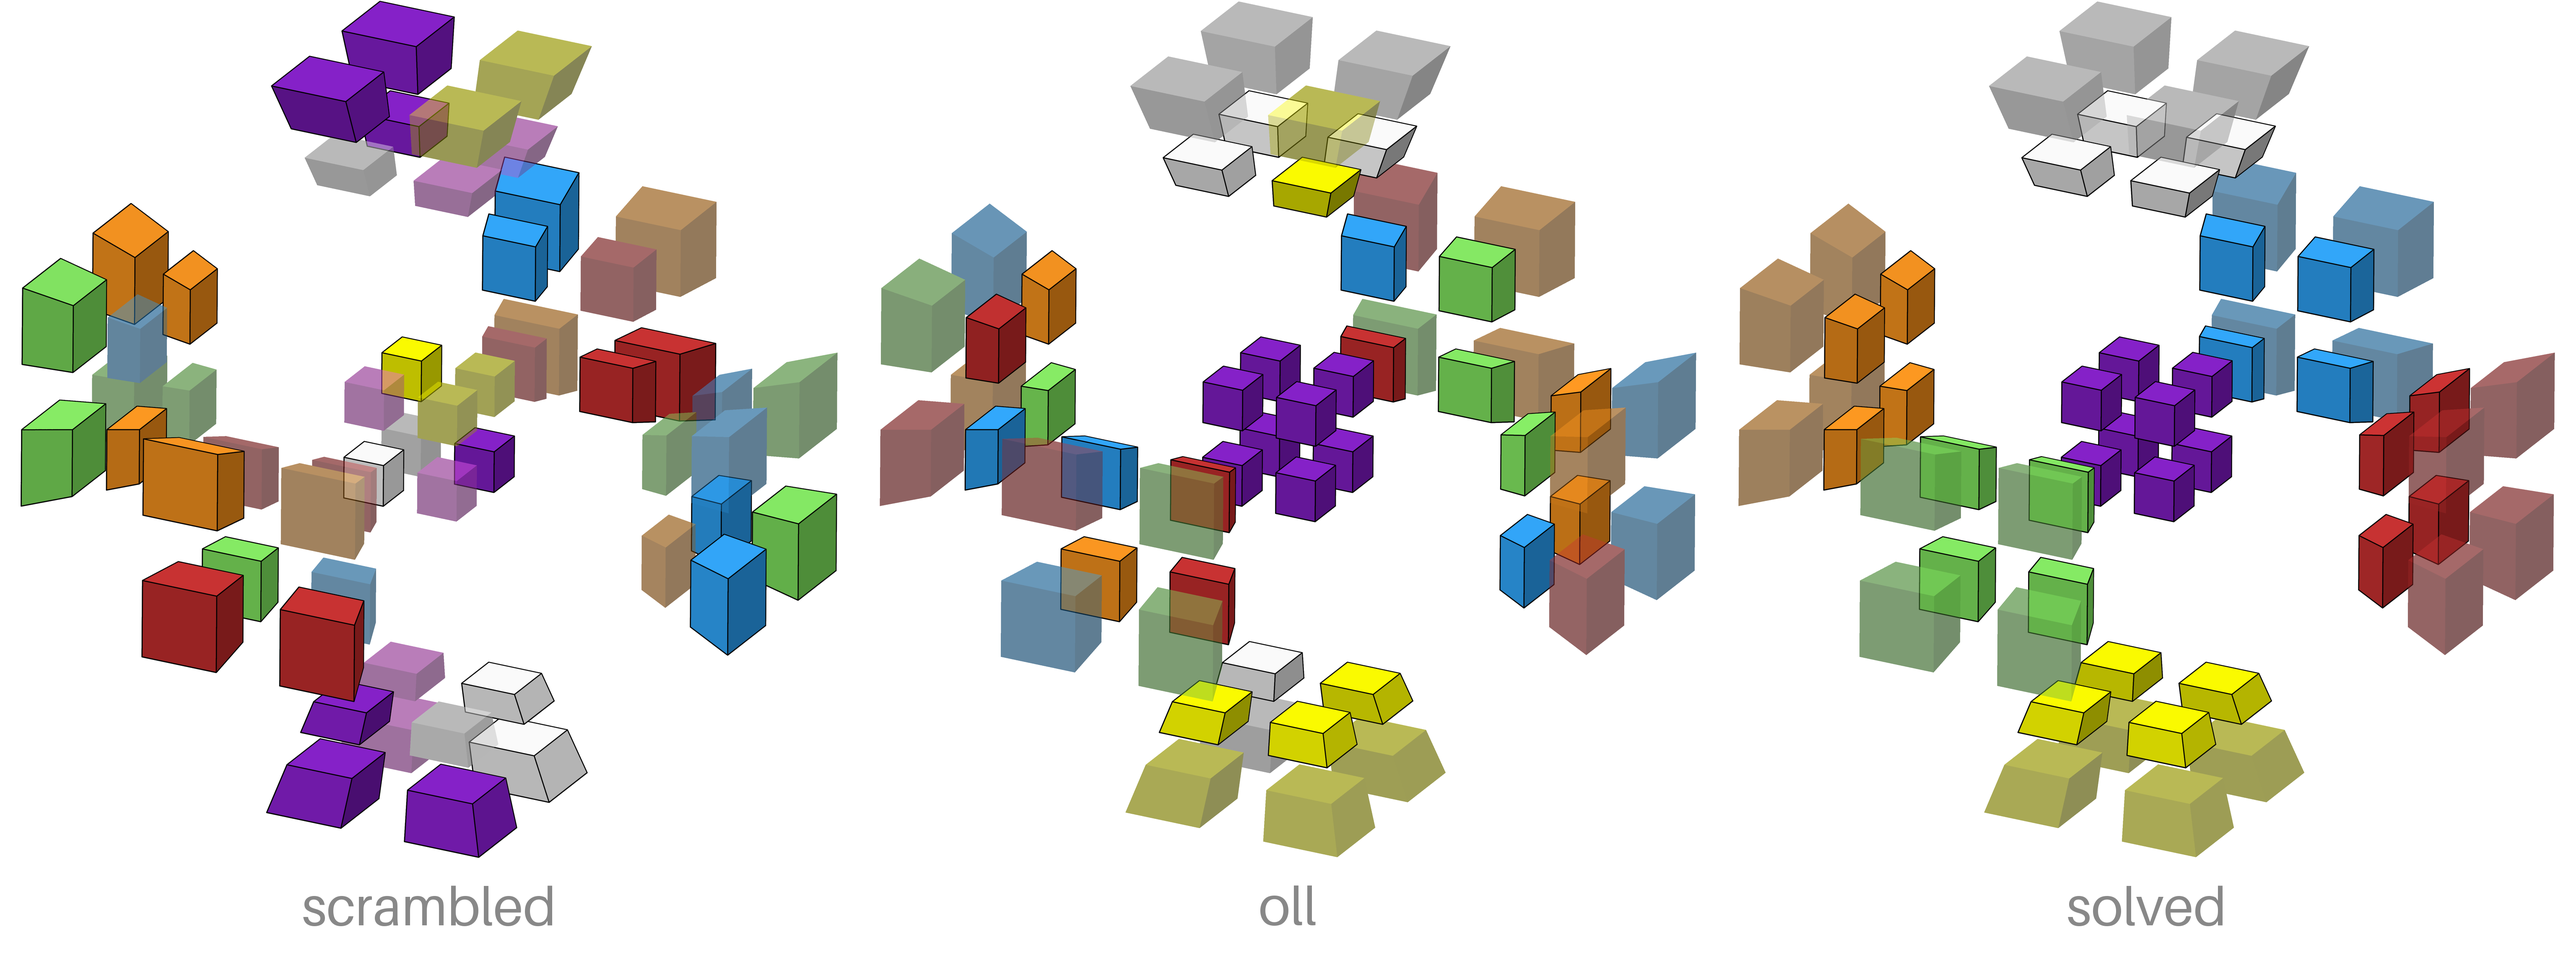
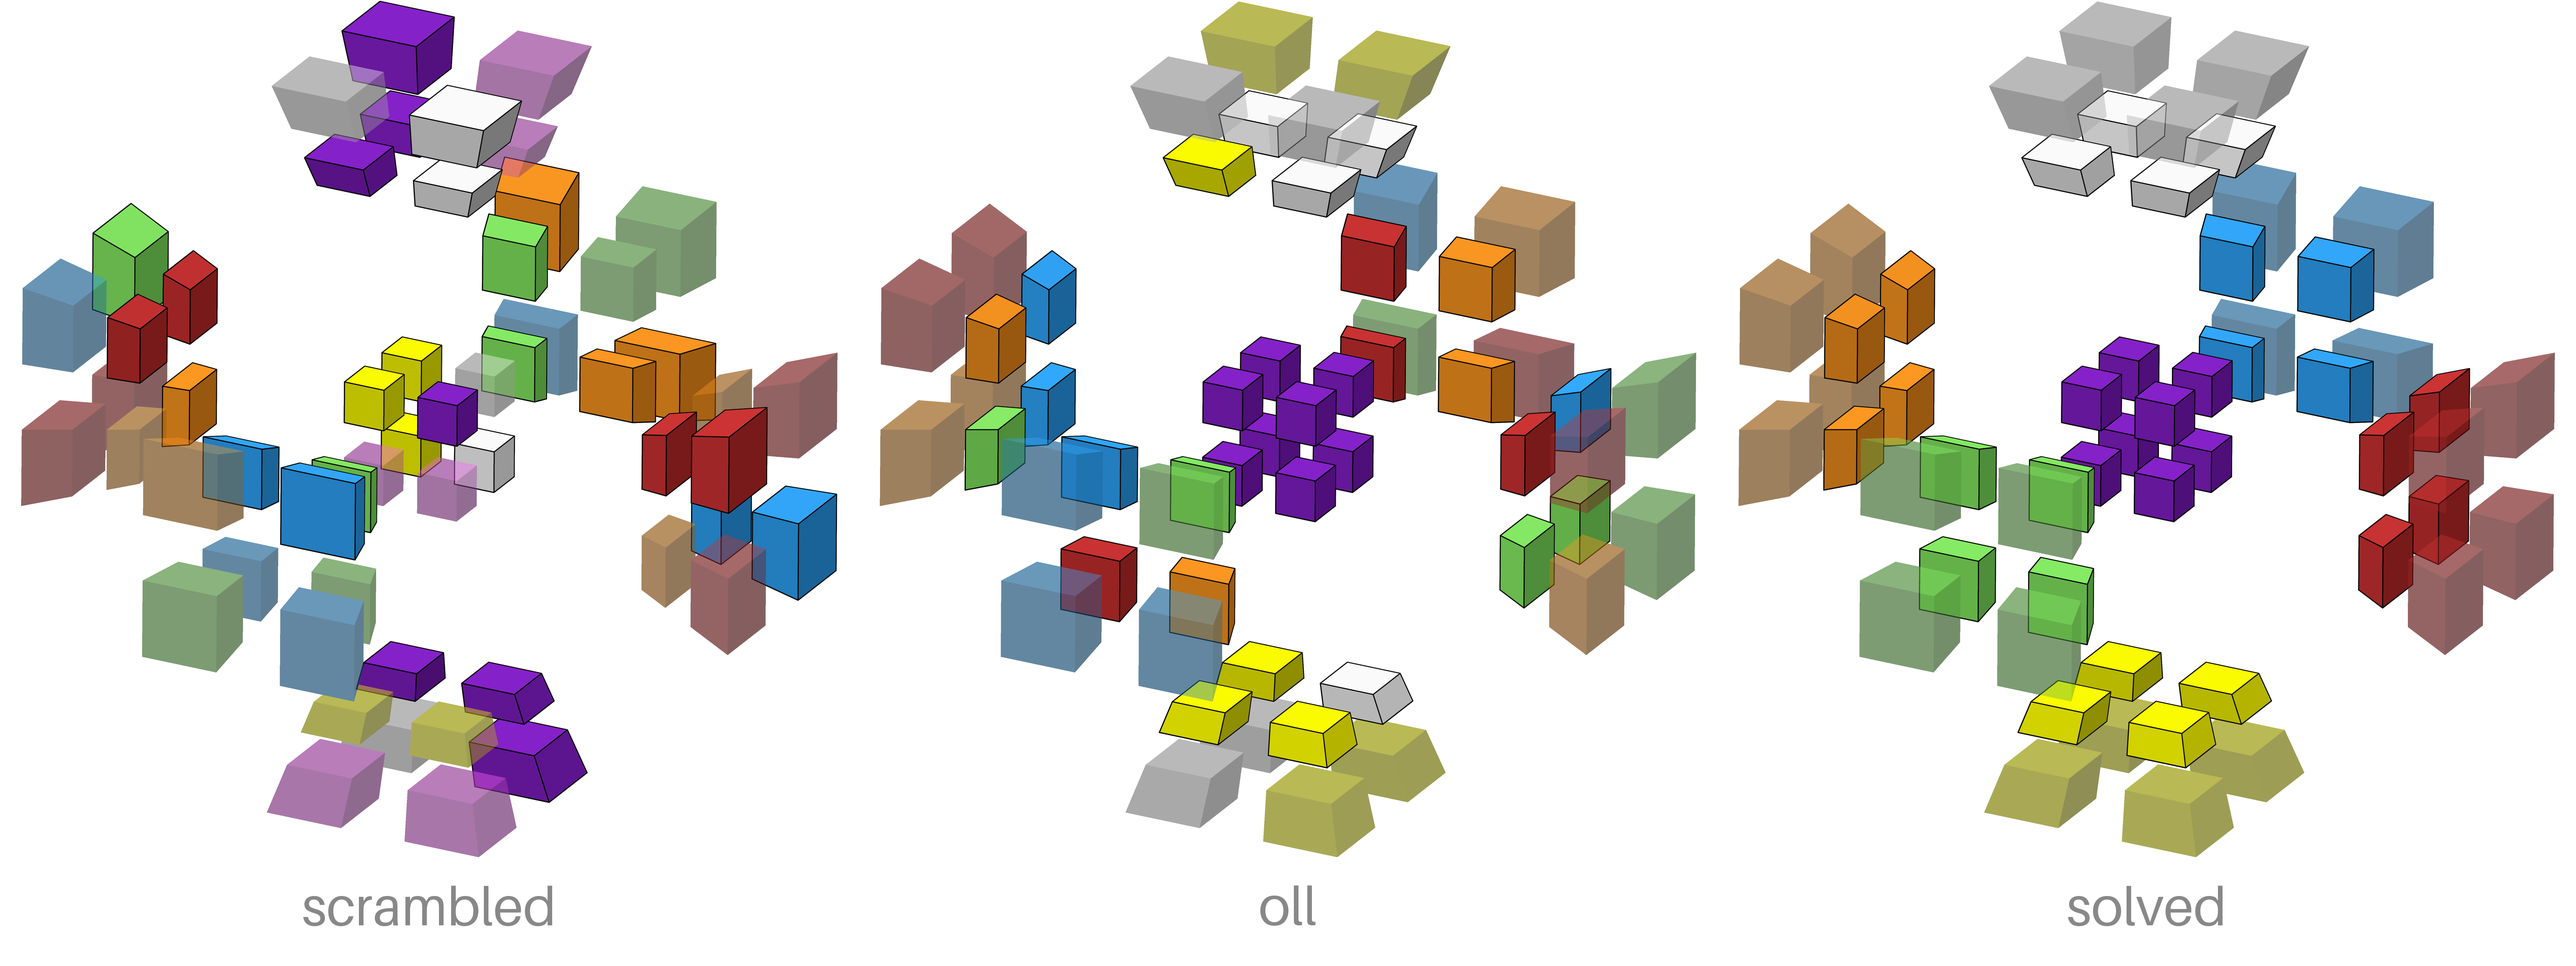
better computer method images

Changed region(s): [[0.0, 0.0312, 0.5625, 0.9062], [0.4375, 0.0, 0.6562, 0.6875], [0.4375, 0.75, 0.5, 0.875]]

diff --git a/assets/build-assets.py b/assets/build-assets.py
@@ -33,21 +33,27 @@ SIZE = 2048
 CAPTION_PX = SIZE // 16
 CAPTION_COLOR = (136, 136, 136, 255)  # mid gray: readable on GitHub's light and dark themes
 
-# Human method, from a 35 STM solve. An action is one undo step after the
-# scramble, so it differs from the STM count shown in hsc2's status bar; the STM
-# at each action is in `render`'s output. Where several actions share an STM,
-# the step uses the last one.
-STEPS = {  # caption: action
-    "scrambled": 0,
-    "f2l": 16,  # STM 11
-    "oll": 29,  # STM 22
-    "separation": 33,  # STM 26
-    "solved": 43,  # STM 35
-}
+# Each strip is frames of one solve log: (log, {caption: action}). An action is
+# one undo step after the scramble, so it can differ from the STM count: hsc2's
+# status bar merges consecutive twists of one cell, and a human log has
+# rotations too. Where several actions share an STM, the step uses the last one.
 STRIPS = {
-    "human": ["scrambled", "f2l", "oll", "separation", "solved"],
-    # The computer method's phase 1 ends in oll too, so it reuses those frames.
-    "computer": ["scrambled", "oll", "solved"],
+    # Human method, from a 35 STM human solve; the STM at each action is in
+    # `render`'s output.
+    "human": (
+        "stm35.hsc",
+        {
+            "scrambled": 0,
+            "f2l": 16,  # STM 11
+            "oll": 29,  # STM 22
+            "separation": 33,  # STM 26
+            "solved": 43,  # STM 35
+        },
+    ),
+    # Computer method, from the solver's `--depth 0` solve of the same scramble
+    # (8 + 14 STM, 23 twists). why depth 0? optimal solves spend nearly all
+    # their twists in phase 1, so their oll frame is almost solved.
+    "computer": ("computer.hsc", {"scrambled": 0, "oll": 8, "solved": 23}),
 }
 
 
@@ -85,18 +91,24 @@ def main() -> None:
         tmp = Path(tmp)
         render(ASSETS / "draw/unfiltered.yaml", tmp / "solved.png").save(ASSETS / "solved.png", optimize=True)
 
-        log = tmp / "stm35.hsc"
-        subprocess.run([ROOT / "target/release/port-log", ASSETS / "stm35.hsc", log], check=True)
-        frames = {}
-        for caption, action in STEPS.items():
-            # `--align-to-end` undoes the whole-puzzle rotation that the solve
-            # ends with, so the frames match solved.png.
-            frames[caption] = render(
-                ASSETS / "draw/purple.yaml", tmp / f"{caption}.png", str(log), "--action", str(action), "--align-to-end"
-            )
-
-        for name, captions in STRIPS.items():
-            strip([frames[c] for c in captions], captions).save(ASSETS / f"{name}.png", optimize=True)
+        for name, (src, steps) in STRIPS.items():
+            log = tmp / src
+            subprocess.run([ROOT / "target/release/port-log", ASSETS / src, log], check=True)
+            # `--align-to-end` undoes the whole-puzzle rotation the solve ends
+            # in (a human's rotations, or the solver's fixed corner), so the
+            # frames match solved.png.
+            frames = [
+                render(
+                    ASSETS / "draw/purple.yaml",
+                    tmp / f"{name}-{caption}.png",
+                    str(log),
+                    "--action",
+                    str(action),
+                    "--align-to-end",
+                )
+                for caption, action in steps.items()
+            ]
+            strip(frames, list(steps)).save(ASSETS / f"{name}.png", optimize=True)
 
         # A phase 2 antipode (21 STM in the reduced moveset), drawn before its solution.
         log = tmp / "antipode-p2.hsc"

diff --git a/README.md b/README.md
@@ -1,24 +1,26 @@
 # README
 
-this is a optimal two phase solver for the {4}x{4} 2x2 duoprism twisty puzzle. it finds optimal solutions see [antipode](antipode.md) for the exploration of god's number.
+this is a optimal two phase solver for the {4}x{4} 2x2 duoprism twisty puzzle. it finds optimal solutions of ~14 STM in ~10 s. see [antipode](antipode.md) for the exploration of god's number.
 
 ![solved](assets/solved.png)
 
 images from [hsc2](https://github.com/hactarCE/Hyperspeedcube/).
 
-for pedagogy, i use the standard 3^4 [notation](https://hypercubing.xyz/notation/), color scheme, and orientation (red on `R`, orange on `L`, white on `U`, yellow on `D`, green on `F`, blue on `B`, pink on `O`, purple on `I`). note that the solver uses a different orientation and notation internally, the same as hsc2.
+for pedagogy, i use the standard 3^4 [notation](https://hypercubing.xyz/notation/), color scheme, and orientation (red on `R`, orange on `L`, white on `U`, yellow on `D`, green on `F`, blue on `B`, pink on `O`, purple on `I`). note that the solver uses a different orientation and notation internally, the same ones as hsc2.
 
 the {4}x{4} duoprism has two rings of square prisms: `R`/`F`/`L`/`B` and `U`/`I`/`D`/`O`.
 
 # method
 
-pieces without a purple sticker (ie with a pink sticker) are drawn translucent.
+pieces without a purple sticker / with a pink sticker are drawn translucent.
 
 ## human
 
+the human method has four steps:
+
 ![human method](assets/human.png)
 
-the human method has four steps. first we solve the pink outer `O` stickers intuitively.
+first we solve the pink outer `O` stickers intuitively.
 
 then we orient the purple inner `I` cell with some short algorithms (variants of sune).
 
@@ -28,9 +30,9 @@ then we solve the rest of the puzzle, using PLB algorithms and `I*` twists.
 
 ## computer
 
-![computer method](assets/computer.png)
+the computer method instead uses just two phases: phase 1 goes from scrambled to oll (`I` on `I`, `O` on `O`, `U`/`D` on `U`/`D`), and phase 2 goes from oll to solved:
 
-the computer method instead uses just two phases: phase 1 goes from scrambled to oll (`I` on `I`, `O` on `O`, `U`/`D` on `U`/`D`), and phase 2 goes from oll to solved.
+![computer method](assets/computer.png)
 
 we hold the all-positive piece (the corner on `εA εB ηA ηB`) fixed, and only twist the four negative cells `εC`, `εD`, `ηC`, `ηD`, for `4 * (8-1) = 28` non-identity twists.
 
@@ -62,7 +64,7 @@ instead of only considering the optimal child, we also have some additional dept
 
 ## more pruning
 
-each higher depth takes about `NUM_TWISTS = 28` slower, so we need more pruning.
+each higher depth is about `NUM_TWISTS = 28` slower, so we need more pruning.
 
 the insight is that a full solution must simultaneously solve all four symmetric oll targets.
 

diff --git a/antipode.md b/antipode.md
@@ -4,7 +4,7 @@ we fully understand each of the phases; we have bounds for the full puzzle
 
 ## phase 1
 
-god's number for phase 1 is 10 STM, taken from the pruning table. here's the (exact) histogram of STM from a random state:
+god's number for phase 1 is 10 STM, taken from the pruning table. here's the (exact) histogram of STM over all cosets:
 
 | STM | cosets |
 |---|---|
@@ -20,7 +20,7 @@ god's number for phase 1 is 10 STM, taken from the pruning table. here's the (ex
 | 9 | 16,157,124 |
 | 10 | 2,744 |
 
-mean 7.95 STM.
+with mean 7.95 STM.
 
 and here's an example of an antipode, chosen for having a nice solution, alternating `ε`-cell twists and `ηD_εA_εD`:
 
@@ -42,7 +42,7 @@ the combinatorial lower bound is 7 STM: 1.05e8 positions.
 
 ## phase 2 (reduced moveset)
 
-god's number for phase 2 under the reduced moveset is 21 STM, taken from the pruning table. here's the (exact) histogram of STM from a random state:
+god's number for phase 2 under the reduced moveset is 21 STM, taken from the pruning table. here's the (exact) histogram of STM over all positions:
 
 | STM | positions |
 |---|---|
@@ -69,7 +69,7 @@ god's number for phase 2 under the reduced moveset is 21 STM, taken from the pru
 | 20 | 637,632 |
 | 21 | 13,280 |
 
-mean 16.18 STM.
+with mean 16.18 STM.
 
 let's get an example of an antipode. as there's 13,280, let's select a pretty one.
 
@@ -108,7 +108,7 @@ the symmetries: conjugate by any of the 16 sign flips, optionally composed with 
 
 the cost grows about 10x per unit of T (T=11: 2 min, 1.28M leftovers). so T=12 plus solving the leftovers is much cheaper than T=14 alone, and also much cheaper than solving all 101.6M states one at a time.
 
-exact histogram up to 12 STM. the remaining 46,252,268 states take 13 or 14, and splitting them needs T = 13 (about 3.5 h):
+here's the exact histogram up to 12 STM. the remaining 46,252,268 states take 13 or 14, and splitting them needs T = 13 (about 3.5 h):
 
 | STM | positions |
 |---|---|
